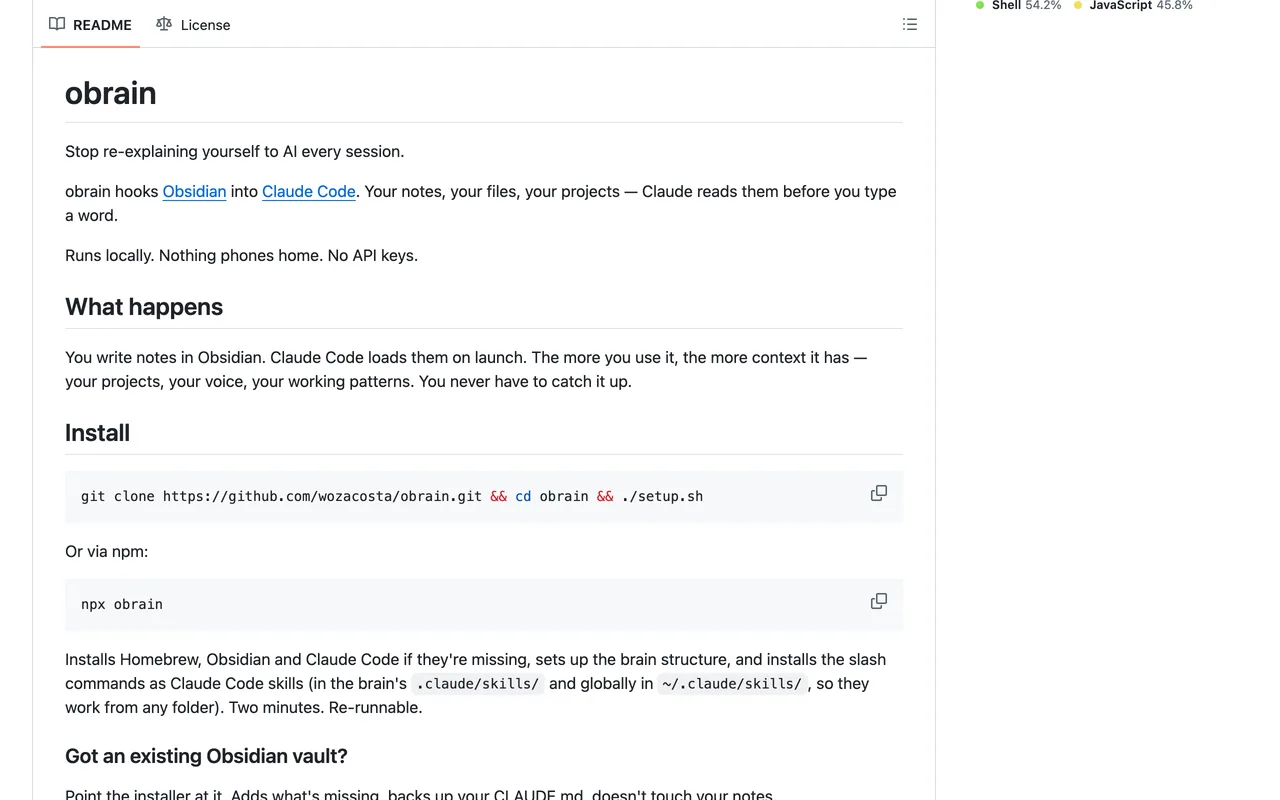
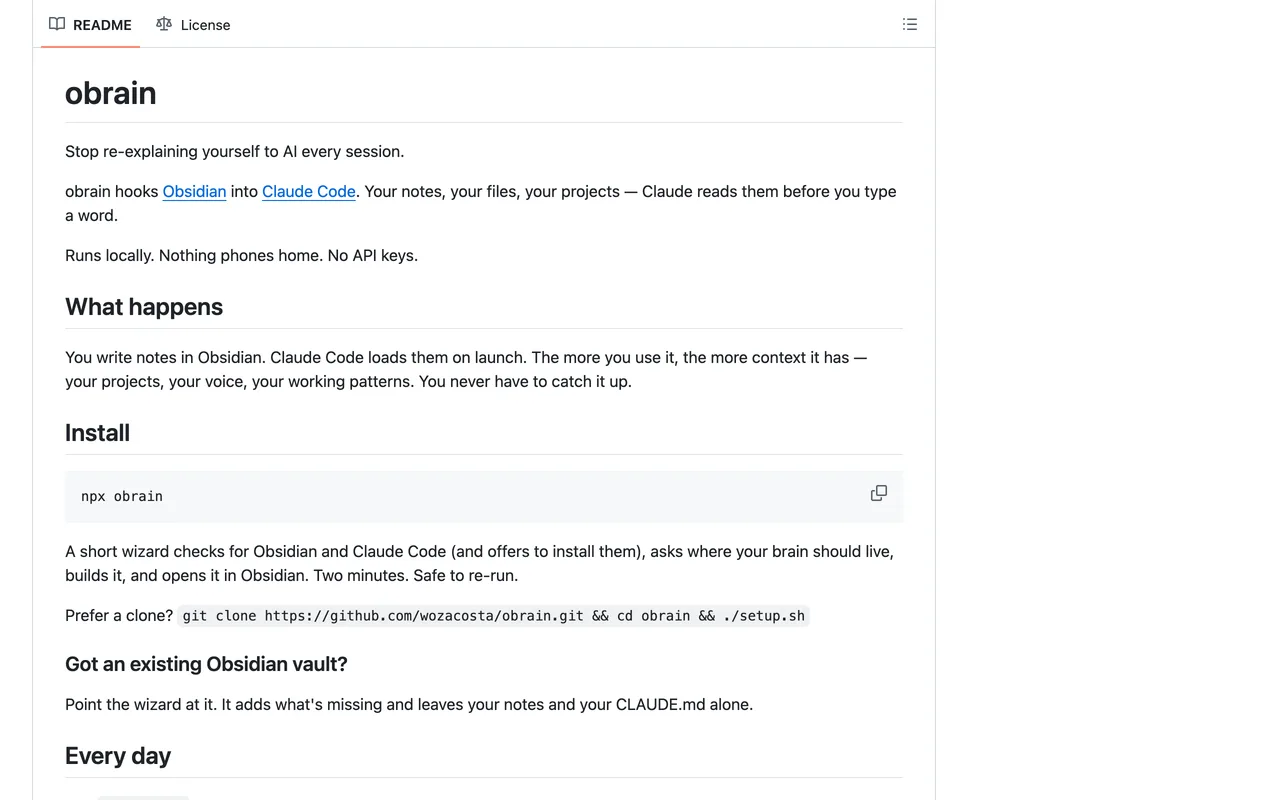
docs(projects): describe the obrain CLI

diff --git a/src/data/projects.ts b/src/data/projects.ts
@@ -188,7 +188,7 @@ export const projects: Project[] = [
     title: "obrain",
     description: "Wire Obsidian into Claude Code in one command",
     summary:
-      "One script installs Obsidian and Claude Code, scaffolds a notes vault, and adds slash commands like /morning, /weekly and /recap. Claude reads the vault at the start of every session, so it already knows your projects and habits. Everything stays on your Mac.",
+      "Run npx obrain and a short wizard installs Obsidian and Claude Code, builds a notes vault, and adds slash commands like /morning, /weekly and /recap. Claude reads the vault at the start of every session, so it already knows your projects and habits. After that, the same command opens a menu to start your day, add files or check that everything's in place.",
     category: "AI",
     color: "#7c3aed",
     url: "https://github.com/Wozacosta/obrain",
